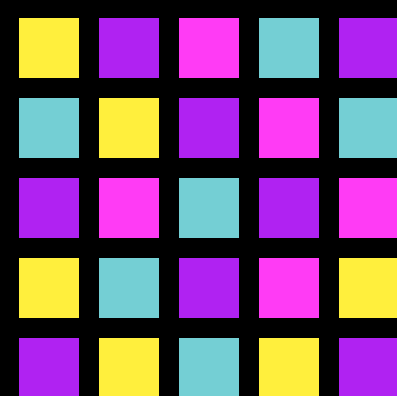
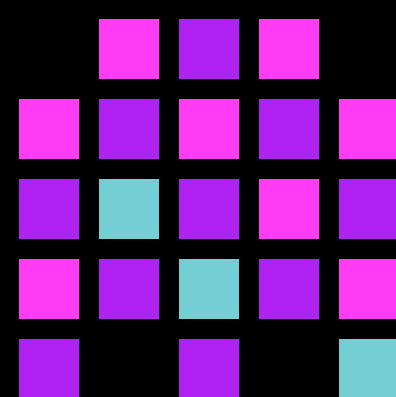
Color mix and slower transition.

diff --git a/js/art/tile.js b/js/art/tile.js
@@ -16,6 +16,7 @@ as long as you display this license and attribution.
 */
 
 var grid_memory = [];
+var updated_idxs = []; // which cells have switched to new colors...
 var grid_width = 5;
 var sq_wide = 400 / grid_width;
 var sq_tall = 400 / grid_width;
@@ -25,7 +26,7 @@ function get_start_color(idx=0){
   // Four Color Tiling
   return [color(48, 159, 219), // cyan
     color(55, 222, 58), // green
-    color(186, 39, 149), // magenta
+    color(255, 239, 61), // yellow
     color(242, 92, 92) // light red
   ][idx];
 }
@@ -33,7 +34,7 @@ function get_start_color(idx=0){
 function get_tile_color(idx=0){
   // Four Color Tiling
   return [
-    color(255, 239, 61), // yellow
+    color(0, 0, 0), // black
     color(255, 59, 245), // pink
     color(116, 207, 212), // bluish
     color(176, 34, 242) // light purple
@@ -60,6 +61,7 @@ function tile_grid() {
   newsq.idx = int(random(0, grid_width*grid_width));
   newsq.color_idx = choose_valid_color(newsq.idx);
   grid_memory[newsq.idx] = newsq;
+  updated_idxs.push(newsq.idx); // track which we have updated.
 }
 
 function choose_valid_color(idx) {
@@ -88,7 +90,6 @@ function choose_valid_color(idx) {
     // by always returning a value.
   }
   var chosen = choose(acceptable);
-  // console.debug(chosen);
   return chosen;
 }
 
@@ -101,10 +102,6 @@ function removeItemOnce(arr, value) {
 }
 
 function get_color_idx(idx) {
-  /*
-  console.debug("IDX", idx);
-  console.debug("Length", grid_memory.length);
-  */
   // out of bounds - high
   if(grid_memory.length <= idx) {
     return -1;
@@ -127,13 +124,16 @@ function draw_grid() {
     y2 = y1 + sq_tall;
 
     var sq_color_idx = grid_memory[i].color_idx;
-    var sq_color = get_tile_color(sq_color_idx);
-    if(grid_memory.length < grid_width*grid_width) {
-      sq_color = get_start_color(sq_color_idx);
+
+    var sq_color = get_start_color(sq_color_idx);
+    // switch to new color scheme after has been tiled once
+    if(updated_idxs.includes(sq_color_idx)) {
+      sq_color = get_tile_color(sq_color_idx);
     }
+
     fill(color(0,0,0));
     rect(x1,y1,x2,y2);
-    fill(color(0,0,0)); // keep black borders for tile.
+    fill(sq_color);
     var sqm = 20;
     rect(x1+sqm,y1+sqm,x2-sqm,y2-sqm);
   }
@@ -149,6 +149,7 @@ var start_pos = [[100,300], [150, 350]];
 function setup() {
   setup_canvas(400,400);
   grid_memory = [];
+  updated_idxs = [];
   zippy();
 }
 
@@ -163,7 +164,10 @@ function draw() {
       setup_grid();
     }
     else {
-      tile_grid();
+      if(pulse % 5 == 0) {
+        // tile a bit slower
+        tile_grid();
+      }
     }
   }
   draw_grid();
